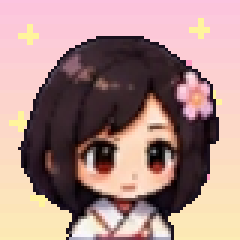
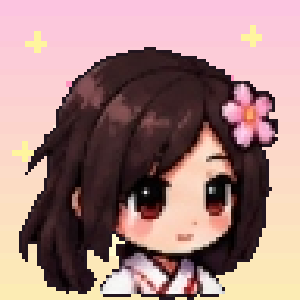
feat: montar atlas limpo em celulas isoladas a partir das novas sheets individuais de Sakura e Jose

diff --git a/js/sprites.js b/js/sprites.js
@@ -8,39 +8,42 @@ const PALETTE = {
   p: '#be185d', w: '#fbcfe8', G: '#22c55e', N: '#475569',
 };
 
-// ---------- Sprite Sheet Chibi Original (assets/char-sheet.png) ----------
+// ---------- Sprite Atlas Limpo (assets/char-sheet.png) ----------
 const charSheetImg = new Image();
-charSheetImg.src = 'assets/char-sheet.png?v=23';
+charSheetImg.src = 'assets/char-sheet.png?v=24';
 
 const CHAR_ANIMS = {
-  // José (masculino)
+  // José (masculino — extraído do PNG transparente nativo sem perda)
   male: {
-    idle: [{ x: 14, y: 401, w: 65, h: 108 }],
-    walk: [
-      { x: 209, y: 405, w: 61, h: 107, dur: 1.25, bob: 0,    sx: 1.04, sy: 0.96, step: true },
-      { x: 274, y: 405, w: 60, h: 108, dur: 0.80, bob: -1.4, sx: 0.97, sy: 1.03, step: false },
-      { x: 335, y: 405, w: 60, h: 107, dur: 1.25, bob: 0,    sx: 1.04, sy: 0.96, step: true },
-      { x: 274, y: 405, w: 60, h: 108, dur: 0.80, bob: -1.4, sx: 0.97, sy: 1.03, step: false },
+    idle: [
+      { x: 16,  y: 176, w: 63, h: 101 },
+      { x: 136, y: 176, w: 58, h: 101 },
     ],
-    jump: [{ x: 613, y: 403, w: 73, h: 103 }],
-    fall: [{ x: 703, y: 414, w: 70, h: 97 }],
-    hurt: [{ x: 16, y: 549, w: 72, h: 111 }],
+    walk: [
+      { x: 256, y: 176, w: 57, h: 100, dur: 1.20, bob: 0,    sx: 1.03, sy: 0.97, step: true },
+      { x: 376, y: 176, w: 56, h: 98,  dur: 0.85, bob: -1.3, sx: 0.98, sy: 1.02, step: false },
+      { x: 496, y: 176, w: 54, h: 100, dur: 1.20, bob: 0,    sx: 1.03, sy: 0.97, step: true },
+      { x: 376, y: 176, w: 56, h: 98,  dur: 0.85, bob: -1.3, sx: 0.98, sy: 1.02, step: false },
+    ],
+    jump: [{ x: 616, y: 176, w: 63, h: 103 }],
+    fall: [{ x: 736, y: 176, w: 66, h: 89 }],
+    hurt: [{ x: 856, y: 176, w: 71, h: 97 }],
   },
-  // Sakura (feminino — idle usa quadros 2 e 3 com ambos os olhos 100% nítidos)
+  // Sakura (feminino — extraída da sheet dedicada de alta nitidez em células isoladas)
   female: {
     idle: [
-      { x: 83,  y: 75, w: 51, h: 95 },
-      { x: 141, y: 75, w: 51, h: 95 },
+      { x: 16,  y: 16, w: 66, h: 121 },
+      { x: 136, y: 16, w: 64, h: 119 },
     ],
     walk: [
-      { x: 213, y: 75, w: 53, h: 95, dur: 1.25, bob: 0,    sx: 1.04, sy: 0.96, step: true },
-      { x: 274, y: 75, w: 53, h: 95, dur: 0.80, bob: -1.4, sx: 0.97, sy: 1.03, step: false },
-      { x: 334, y: 76, w: 55, h: 94, dur: 1.25, bob: 0,    sx: 1.04, sy: 0.96, step: true },
-      { x: 274, y: 75, w: 53, h: 95, dur: 0.80, bob: -1.4, sx: 0.97, sy: 1.03, step: false },
+      { x: 376, y: 16, w: 65, h: 118, dur: 1.20, bob: 0,    sx: 1.03, sy: 0.97, step: true },
+      { x: 496, y: 16, w: 64, h: 118, dur: 0.85, bob: -1.3, sx: 0.98, sy: 1.02, step: false },
+      { x: 616, y: 16, w: 63, h: 116, dur: 1.20, bob: 0,    sx: 1.03, sy: 0.97, step: true },
+      { x: 496, y: 16, w: 64, h: 118, dur: 0.85, bob: -1.3, sx: 0.98, sy: 1.02, step: false },
     ],
-    jump: [{ x: 610, y: 73, w: 70, h: 92 }],
-    fall: [{ x: 709, y: 78, w: 59, h: 93 }],
-    hurt: [{ x: 27, y: 214, w: 67, h: 101 }],
+    jump: [{ x: 736, y: 16, w: 82, h: 115 }],
+    fall: [{ x: 856, y: 16, w: 86, h: 113 }],
+    hurt: [{ x: 976, y: 16, w: 78, h: 92 }],
   },
 };
 
@@ -49,8 +52,8 @@ function drawChibiFrame(ctx, charKey, animName, frameIdx, centerX, bottomY, flip
   const set = CHAR_ANIMS[charKey] || CHAR_ANIMS.male;
   const list = set[animName] || set.idle;
   const f = list[frameIdx % list.length];
-  // Com canvas 1536x864 (4x), targetHeight ~27-29.5 renderiza os sprites ~95-108px na resolução 1:1 nativa!
-  const targetHeight = charKey === 'male' ? 29.5 : 27;
+  // Com canvas 1536x864 (4x), targetHeight ~28 renderiza ambos com nitidez 1:1 nativa!
+  const targetHeight = charKey === 'male' ? 28.5 : 28;
   const scale = targetHeight / set.idle[0].h;
   const dw = f.w * scale;
   const dh = f.h * scale;

diff --git a/index.html b/index.html
@@ -78,11 +78,11 @@
 
       <div class="title-hero">
         <button class="medallion-btn selected" id="select-male">
-          <div class="medallion-ring"><img src="assets/portrait-jose.png?v=23" alt="José" class="medallion-img" /></div>
+          <div class="medallion-ring"><img src="assets/portrait-jose.png?v=24" alt="José" class="medallion-img" /></div>
           <span class="medallion-name">JOSÉ</span>
         </button>
         <button class="medallion-btn" id="select-female">
-          <div class="medallion-ring"><img src="assets/portrait-sakura.png?v=23" alt="Sakura" class="medallion-img" /></div>
+          <div class="medallion-ring"><img src="assets/portrait-sakura.png?v=24" alt="Sakura" class="medallion-img" /></div>
           <span class="medallion-name">SAKURA</span>
         </button>
       </div>
@@ -113,7 +113,7 @@
     <!-- Diálogo (4ª parede) -->
     <div id="dialogue-box" class="dialogue-overlay hidden">
       <div class="rpg-dialogue-card">
-        <div class="dialogue-medallion"><img id="dialogue-avatar-img" src="assets/portrait-jose.png?v=23" alt="" class="medallion-img" /></div>
+        <div class="dialogue-medallion"><img id="dialogue-avatar-img" src="assets/portrait-jose.png?v=24" alt="" class="medallion-img" /></div>
         <div class="dialogue-content">
           <div id="dialogue-speaker" class="dialogue-speaker">JOSÉ</div>
           <p id="dialogue-text" class="dialogue-text"></p>
@@ -247,9 +247,9 @@
     </div>
   </div>
 
-  <script src="js/i18n.js?v=23"></script>
-  <script src="js/audio.js?v=23"></script>
-  <script src="js/sprites.js?v=23"></script>
-  <script src="js/game.js?v=23"></script>
+  <script src="js/i18n.js?v=24"></script>
+  <script src="js/audio.js?v=24"></script>
+  <script src="js/sprites.js?v=24"></script>
+  <script src="js/game.js?v=24"></script>
 </body>
 </html>

diff --git a/js/game.js b/js/game.js
@@ -449,7 +449,7 @@ function startGame(withIntro = true) {
 function showIntro() {
   const isJose = selectedCharacter === 'male';
   $('dialogue-speaker').textContent = isJose ? 'JOSÉ' : 'SAKURA';
-  $('dialogue-avatar-img').src = isJose ? 'assets/portrait-jose.png?v=23' : 'assets/portrait-sakura.png?v=23';
+  $('dialogue-avatar-img').src = isJose ? 'assets/portrait-jose.png?v=24' : 'assets/portrait-sakura.png?v=24';
   const full = t('dialogue_' + selectedCharacter);
   $('dialogue-text').textContent = '';
   $('dialogue-box').classList.remove('hidden');
